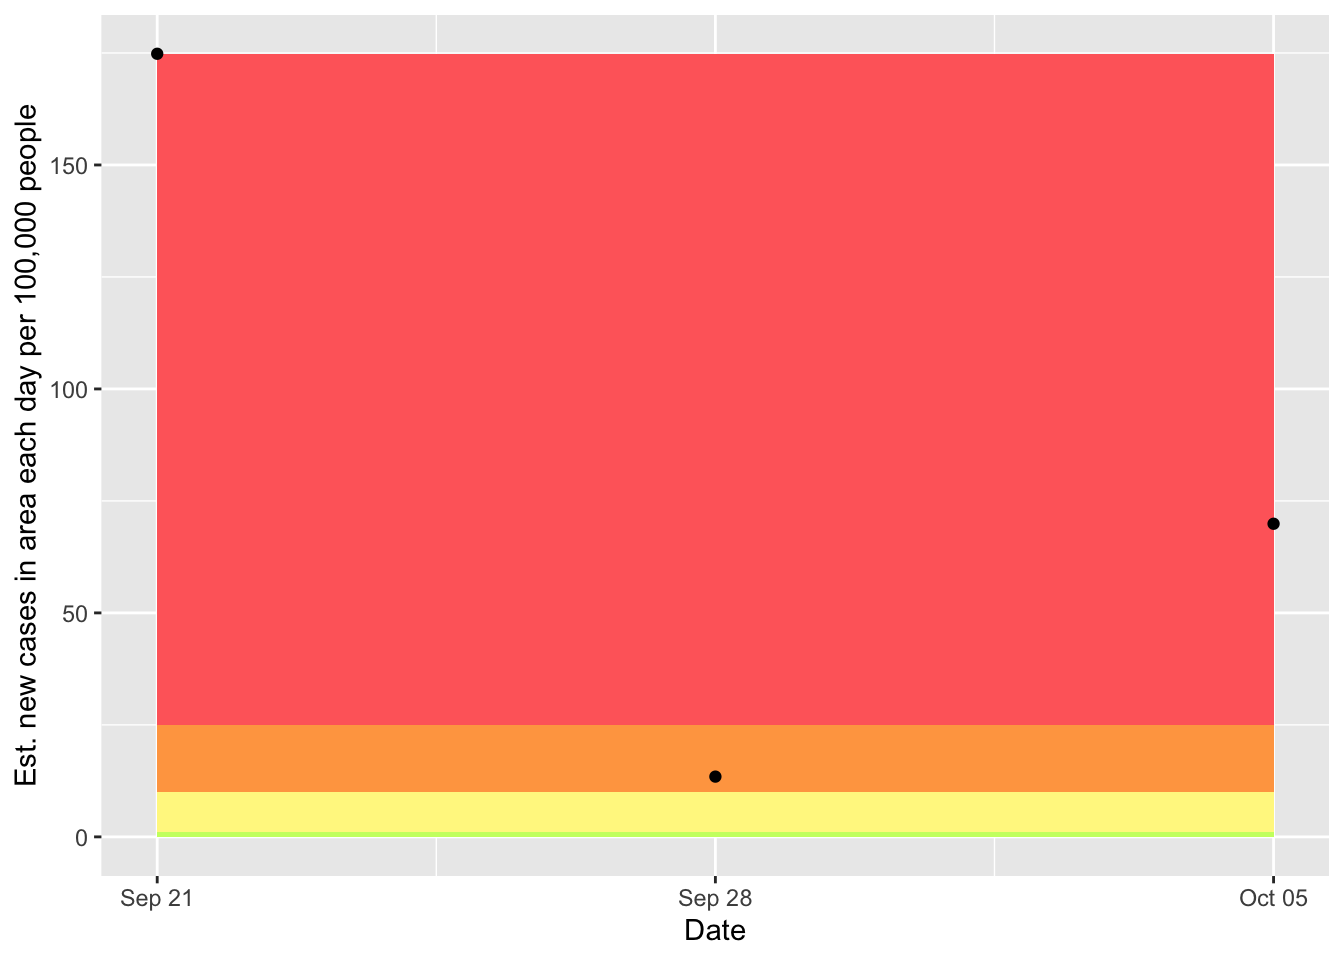
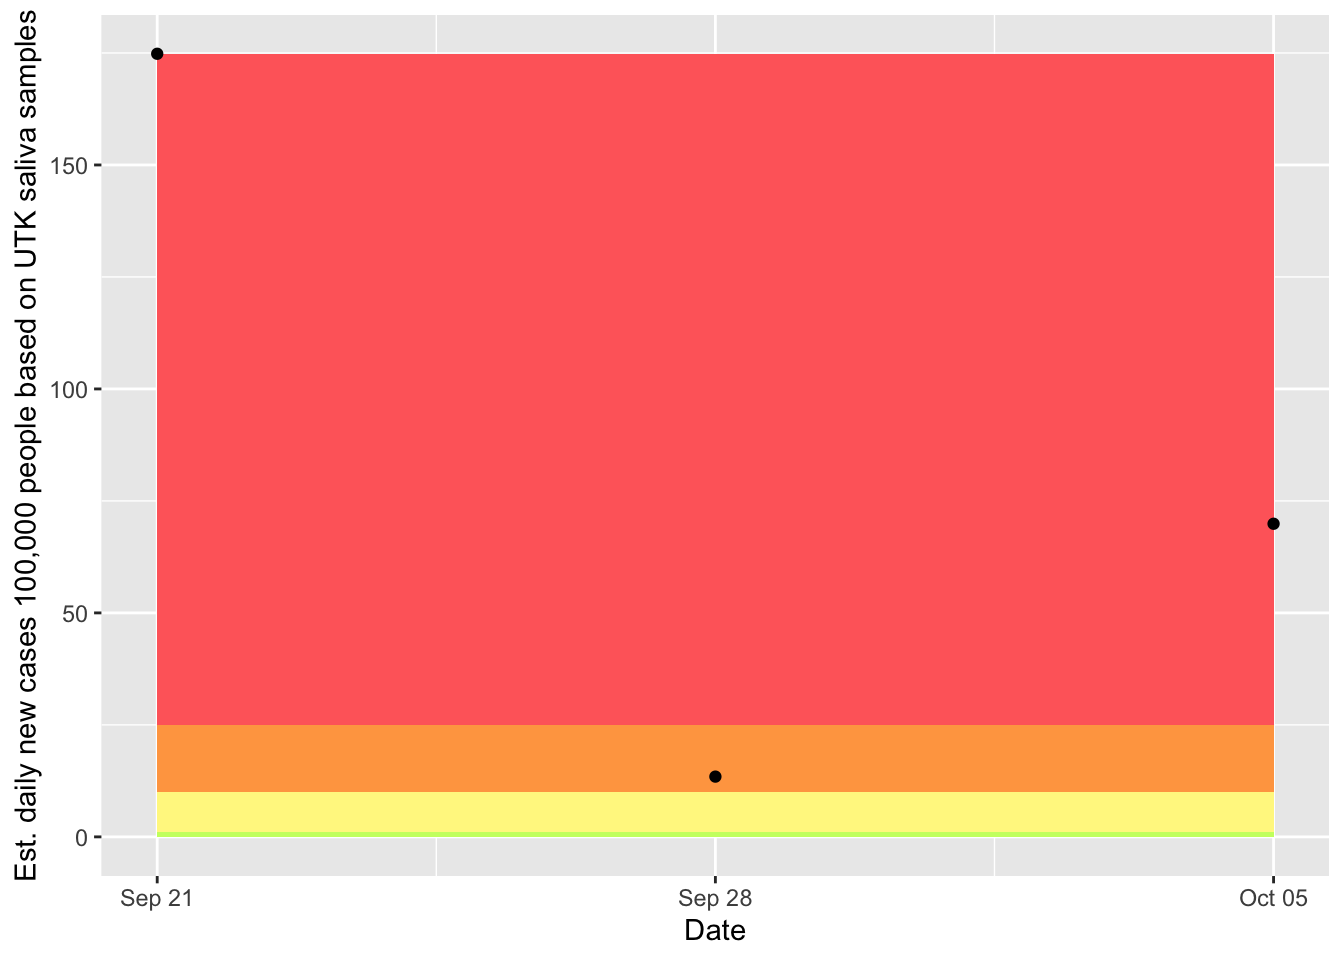
updating site

Changed region(s): [[0.0, 0.0, 0.0312, 0.9375]]

diff --git a/docs/covid.html b/docs/covid.html
@@ -426,7 +426,7 @@ $(document).ready(function () {
 <li>Info about cases at <a href="#ut">U. of Tennessee, Knoxville</a> (using public information only)</li>
 <li><a href="#webcams">Webcams</a> showing activity at local sites, though not quite at the resolution to point to mask usage or not</li>
 </ul>
-<p>The following plots are created in R using data from <a href="https://covid19datahub.io" class="uri">https://covid19datahub.io</a> (Guidotti, E., Ardia, D., (2020), “COVID-19 Data Hub”, Working paper, doi: 10.13140/RG.2.2.11649.81763), as well as information from Google and the <a href="https://www.tn.gov/health/cedep/ncov/data/downloadable-datasets.html">state of Tennessee dataset page</a> and plotting and analysis using the <code>forecast</code>, <code>ggplot2</code>, <code>reshape2</code>, and <code>dplyr</code> packages. Plots created on 2020-10-19 02:07:11. I use a seven day rolling average for most plots using the <code>geom_ma</code> function of <code>tidyquant</code>.</p>
+<p>The following plots are created in R using data from <a href="https://covid19datahub.io" class="uri">https://covid19datahub.io</a> (Guidotti, E., Ardia, D., (2020), “COVID-19 Data Hub”, Working paper, doi: 10.13140/RG.2.2.11649.81763), as well as information from Google and the <a href="https://www.tn.gov/health/cedep/ncov/data/downloadable-datasets.html">state of Tennessee dataset page</a> and plotting and analysis using the <code>forecast</code>, <code>ggplot2</code>, <code>reshape2</code>, and <code>dplyr</code> packages. Plots created on 2020-10-19 02:18:00. I use a seven day rolling average for most plots using the <code>geom_ma</code> function of <code>tidyquant</code>.</p>
 <h2 id="cases">
 Cases
 </h2>
@@ -492,7 +492,7 @@ University of Tennessee, Knoxville
 <p>As for the county data, the positivity rate can also be important: if all the tests show up positive, likey symptomatic, cases, then there are likely other people being missed. The <i>New York Times</i> <a href="https://www.nytimes.com/2020/07/14/us/coronavirus-schools-fall.html">reports</a> on July 14, 2020, that, “As education leaders decide whether to reopen classrooms in the fall amid a raging pandemic, many are looking to a standard generally agreed upon among epidemiologists: To control community spread of the coronavirus, the average daily infection rate among those who are tested should not exceed 5 percent.” The horizontal black line below shows that guidance. The CDC provides thoughts about possible testing strategies at colleges and universities <a href="https://www.cdc.gov/coronavirus/2019-ncov/community/colleges-universities/ihe-testing.html#when-to-test">here</a> but not a firm number for how much testing they believe is necessary.</p>
 <p><img src="covid_files/figure-html/plotsutkproportion-1.png" width="672" /></p>
 <p>We can also use the UTK saliva data to estimate the number of new cases: the proportion of students who ultimately test postive out of those tested by the saliva scans. Given poor compliance, the true proportions may be much higher than this (if students want to endanger others by not isolating, they may avoid testing if they think they have been exposed). Depending on the date of the test, between 1 of every 41 to 1 of every 531 of students who contributed samples had active covid infections.</p>
-<p>I am converting the saliva test info to new cases per 100K to correspond with the <a href="https://globalepidemics.org/key-metrics-for-covid-suppression/">Harvard Global Health Institute’s</a> standards for guidance of control. However, these guidelines are for daily new cases but the saliva data are active cases. I am using the assumption that Knox County uses that new cases are only active for 14 days, so I’m computing the new case estimate as 1/14 the active case estimate.</p>
+<p>I am converting the saliva test info to new cases per 100K to correspond with the <a href="https://globalepidemics.org/key-metrics-for-covid-suppression/">Harvard Global Health Institute’s</a> standards for guidance of control. However, these guidelines are for daily new cases but the saliva data are active cases. I am using the assumption that Knox County uses that new cases are only active for 14 days, so I’m computing the new case estimate as 1/14 the active case estimate. The green, yellow, and orange bands are the same as for Knox and Anderson+Roane counties above; the red band looks much thicker because it has the same lower bound as the others but no maximum, and some of the estimates for UTK are outside the range for the county-wide data.</p>
 <p><img src="covid_files/figure-html/plotsaliva100k-1.png" width="672" /></p>
 <hr />
 <h2 id="webcams">

diff --git a/docs/covid2.html b/docs/covid2.html
@@ -426,7 +426,7 @@ $(document).ready(function () {
 <li>Info about cases at <a href="#ut">U. of Tennessee, Knoxville</a> (using public information only)</li>
 <li><a href="#webcams">Webcams</a> showing activity at local sites, though not quite at the resolution to point to mask usage or not</li>
 </ul>
-<p>The following plots are created in R using data from <a href="https://covid19datahub.io" class="uri">https://covid19datahub.io</a> (Guidotti, E., Ardia, D., (2020), “COVID-19 Data Hub”, Working paper, doi: 10.13140/RG.2.2.11649.81763), as well as information from Google and the <a href="https://www.tn.gov/health/cedep/ncov/data/downloadable-datasets.html">state of Tennessee dataset page</a> and plotting and analysis using the <code>forecast</code>, <code>ggplot2</code>, <code>reshape2</code>, and <code>dplyr</code> packages. Plots created on 2020-10-19 02:08:53. I use a seven day rolling average for most plots using the <code>geom_ma</code> function of <code>tidyquant</code>.</p>
+<p>The following plots are created in R using data from <a href="https://covid19datahub.io" class="uri">https://covid19datahub.io</a> (Guidotti, E., Ardia, D., (2020), “COVID-19 Data Hub”, Working paper, doi: 10.13140/RG.2.2.11649.81763), as well as information from Google and the <a href="https://www.tn.gov/health/cedep/ncov/data/downloadable-datasets.html">state of Tennessee dataset page</a> and plotting and analysis using the <code>forecast</code>, <code>ggplot2</code>, <code>reshape2</code>, and <code>dplyr</code> packages. Plots created on 2020-10-19 02:19:49. I use a seven day rolling average for most plots using the <code>geom_ma</code> function of <code>tidyquant</code>.</p>
 <h2 id="cases">
 Cases
 </h2>
